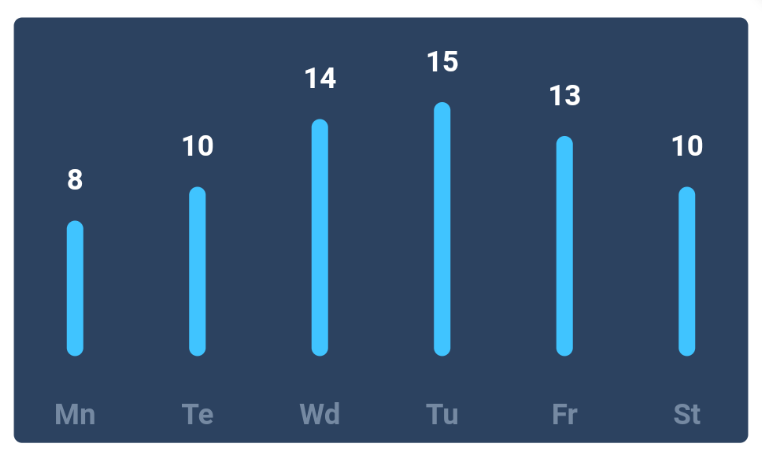
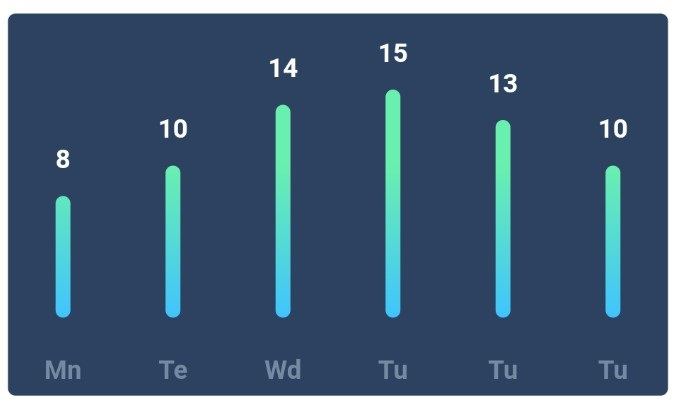
Updated bar_chart_sample3

diff --git a/example/lib/bar_chart/samples/bar_chart_sample3.dart b/example/lib/bar_chart/samples/bar_chart_sample3.dart
@@ -78,42 +78,42 @@ class BarChartSample3State extends State<BarChartSample3> {
               BarChartGroupData(
                 x: 0,
                 barRods: [
-                  BarChartRodData(y: 8, colors: [Colors.lightBlueAccent])
+                  BarChartRodData(y: 8, colors: [Colors.lightBlueAccent, Colors.greenAccent])
                 ],
                 showingTooltipIndicators: [0],
               ),
               BarChartGroupData(
                 x: 1,
                 barRods: [
-                  BarChartRodData(y: 10, colors: [Colors.lightBlueAccent])
+                  BarChartRodData(y: 10, colors: [Colors.lightBlueAccent, Colors.greenAccent])
                 ],
                 showingTooltipIndicators: [0],
               ),
               BarChartGroupData(
                 x: 2,
                 barRods: [
-                  BarChartRodData(y: 14, colors: [Colors.lightBlueAccent])
+                  BarChartRodData(y: 14, colors: [Colors.lightBlueAccent, Colors.greenAccent])
                 ],
                 showingTooltipIndicators: [0],
               ),
               BarChartGroupData(
                 x: 3,
                 barRods: [
-                  BarChartRodData(y: 15, colors: [Colors.lightBlueAccent])
+                  BarChartRodData(y: 15, colors: [Colors.lightBlueAccent, Colors.greenAccent])
                 ],
                 showingTooltipIndicators: [0],
               ),
               BarChartGroupData(
                 x: 3,
                 barRods: [
-                  BarChartRodData(y: 13, colors: [Colors.lightBlueAccent])
+                  BarChartRodData(y: 13, colors: [Colors.lightBlueAccent, Colors.greenAccent])
                 ],
                 showingTooltipIndicators: [0],
               ),
               BarChartGroupData(
                 x: 3,
                 barRods: [
-                  BarChartRodData(y: 10, colors: [Colors.lightBlueAccent])
+                  BarChartRodData(y: 10, colors: [Colors.lightBlueAccent, Colors.greenAccent])
                 ],
                 showingTooltipIndicators: [0],
               ),
